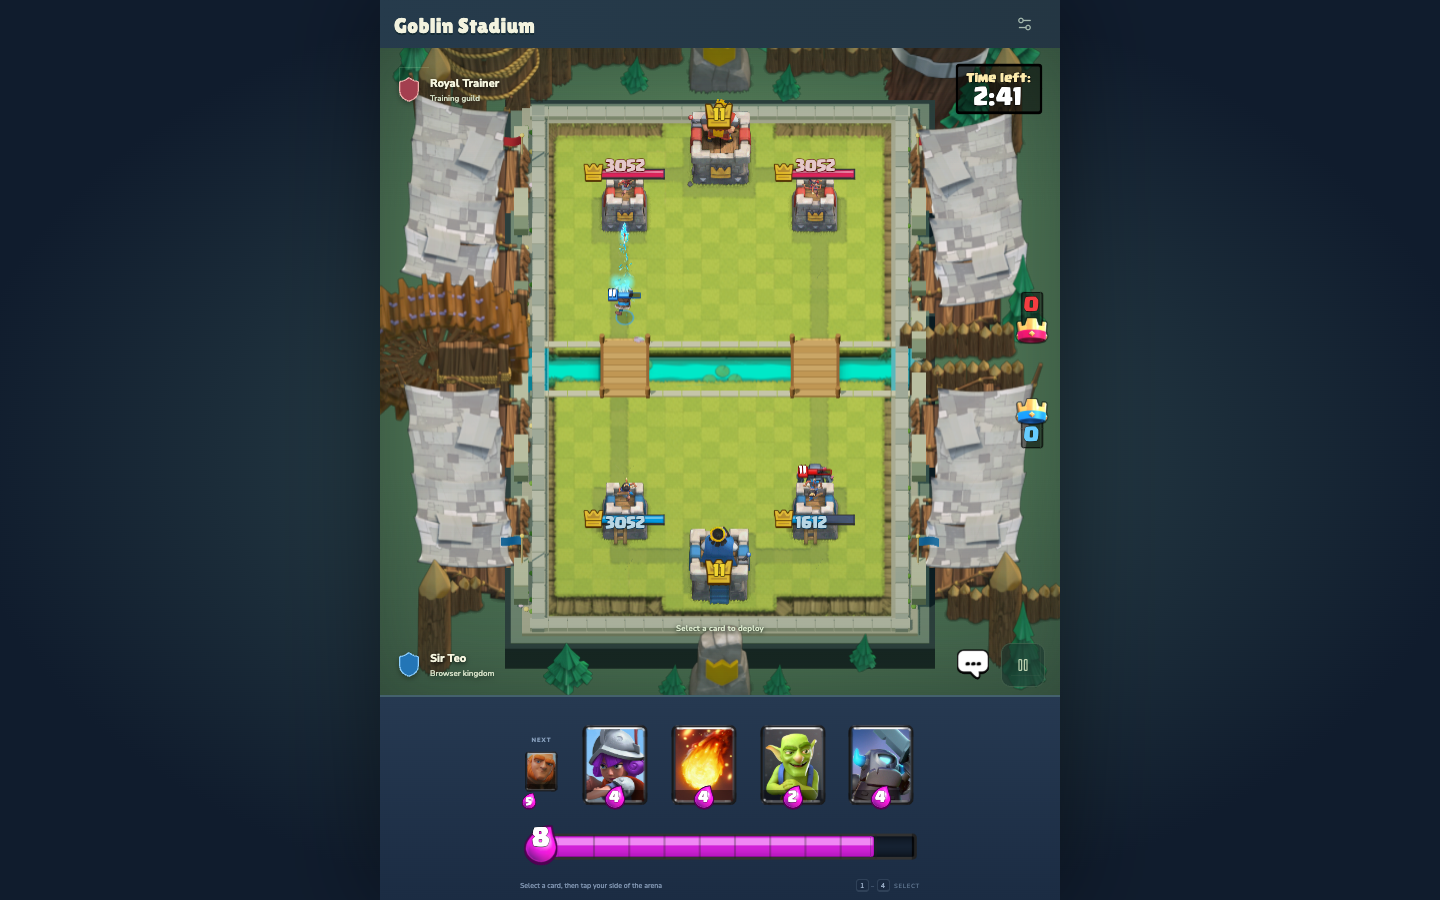
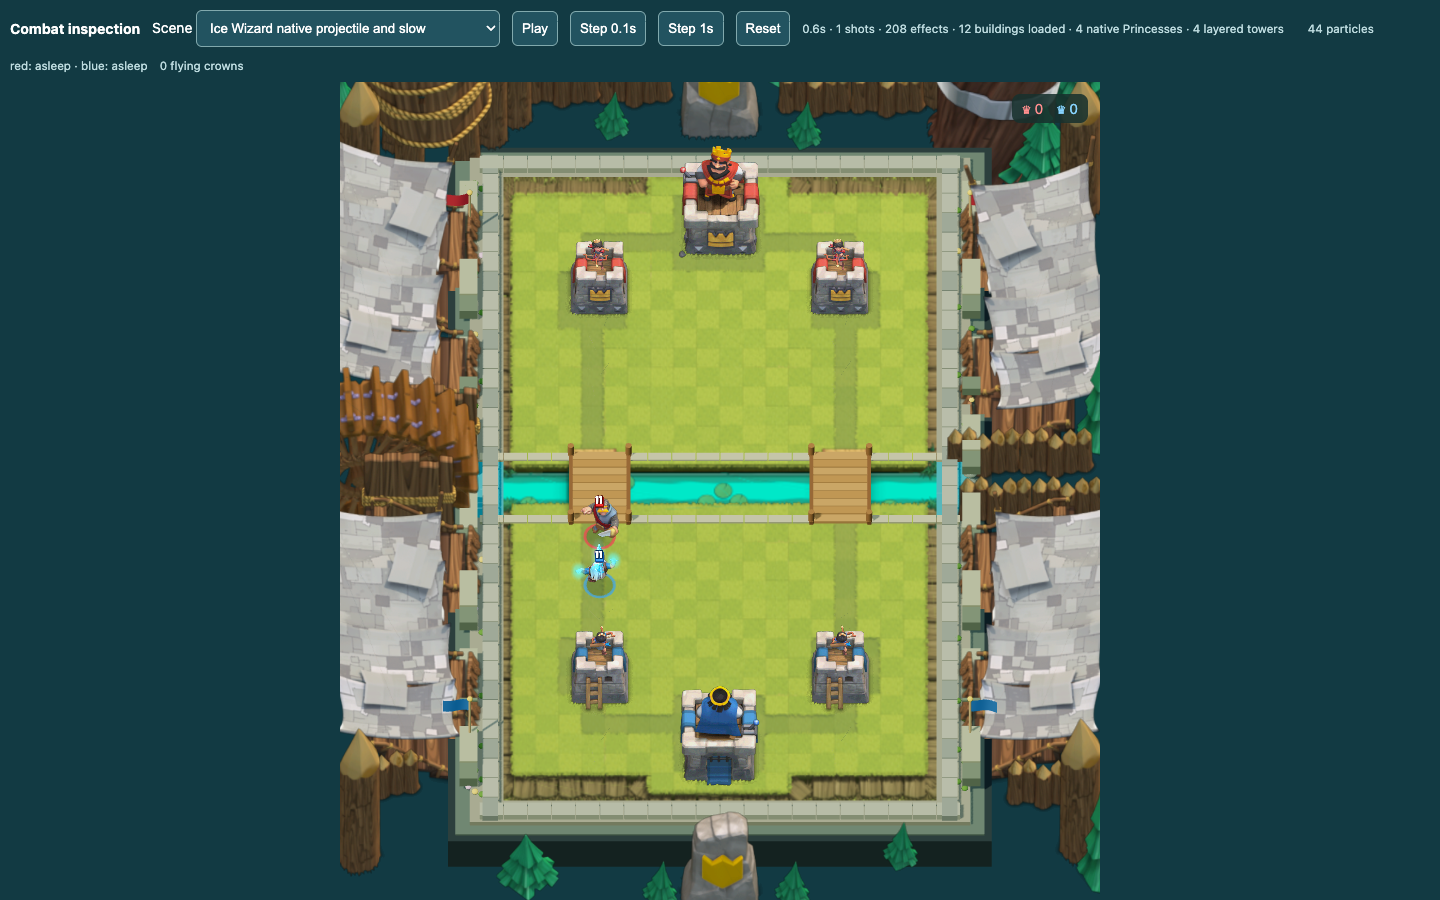
Record full browser sweep and controlled Ice Wizard captures

diff --git a/docs/QA.md b/docs/QA.md
@@ -633,7 +633,7 @@ All 303 unit checks, type checking and the production build pass. Production des
 
 The archived Ice Wizard card, character, projectile and buff rows pin a three-elixir Legendary attacker with a one-tile ground/air splash. Unit checks verify the source hashes, 54 directional sprite clips, original portrait, native projectile and four-layer icy impact, 95-particle snowflake/shard trail, 31-frame Legendary deployment filter, and the two-second 35% slow. The simulation test hits nearby ground and air units, confirms the slow in a guest snapshot, measures reduced attack and movement speed, and confirms expiry. The full 305-test suite, type check and production build pass.
 
-Production Chromium desktop and WebKit phone both selected Ice Wizard in the real hand, deployed him, loaded all 24 native animation families and observed the `ice_wizard_projectile` shot. Screenshots are `docs/screenshots/ice-wizard-shot.png`, `docs/screenshots/phone-ice-wizard-selected.png` and `docs/screenshots/phone-ice-wizard-shot.png`. Offline production reload starts a battle with the browser match worker and all 164 unique native combat/death audio files in a 670-file cache (version `01c1eb711bef`). A mixed Chromium/WebKit direct-browser invitation, battle, pause and replay passes without a game server.
+Production Chromium desktop and WebKit phone both selected Ice Wizard in the real hand, deployed him and loaded all 24 native animation families. A controlled browser scene verifies the `ice_wizard_projectile` sprite and its hit on both devices. Screenshots are `docs/screenshots/ice-wizard-shot.png`, `docs/screenshots/phone-ice-wizard-selected.png` and `docs/screenshots/phone-ice-wizard-shot.png`. Offline production reload starts a battle with the browser match worker and all 164 unique native combat/death audio files in a 670-file cache (version `01c1eb711bef`). A mixed Chromium/WebKit direct-browser invitation, battle, pause and replay passes without a game server.
 The phone WebKit card gallery also passes all 43 portraits, touch targets, fallback art and rotation checks.
 
 ## Native Princess and five-arrow volley
@@ -772,3 +772,9 @@ The deployed `https://sir-teo-clash.web.app/` version-16 bundle matches the buil
 ## Phone home-screen installation
 
 The standalone manifest, Apple touch metadata and 180/192/512-pixel crown icons now ship in the static build. The 512-pixel maskable icon has an opaque full canvas; the crown remains within the central safe area. The icon PNGs regenerate from `public/app-icon.svg` with `npm run assets:app-icons`. Chromium's `Page.getAppManifest` reports no parse errors, and `Page.getInstallabilityErrors` reports none on the local production preview or the hosted URL. The hosted HTML, manifest and four icons match the built bytes. The production offline test disconnects after service-worker installation, reloads, fetches the manifest and decodes all listed icons plus the touch icon, then starts a version-16 battle and checks native audio and fonts. Mobile WebKit also reloads offline under service-worker control and fetches the manifest and all three browser icons. All 439 unit tests, TypeScript checking and the production build pass; the cache contains 921 files. Production Mobile Safari still passes six viewport sizes, rotation and touch input. A mixed Chromium/WebKit production direct-peer battle passes pairing, combat, pause and replay. Physical home-screen launch on a phone remains unverified.
+
+## Full desktop sweep and GitHub Pages install paths
+
+A full 155-case desktop Chromium sweep against the development server produced 148 passes, one intended skip and six failures. Five were browser-check assumptions: two diagnostics were read before their next render frame, the native death-audio manifest had grown from six to nine files, a short replay-start wait expired under full-suite load, and a health assertion still expected Zap's old 30% Crown Tower damage. The five repaired cases pass together on rerun. The sixth case watched for a brief Ice Wizard projectile in an uncontrolled AI match; it passes in isolation but timed out in the loaded sweep. Real-hand deployment now has its own browser check, and a deterministic attack scene verifies the native `ice_wizard_projectile` sprite, a hit event and target damage. Both desktop Chromium and phone WebKit pass both Ice Wizard cases; inspected projectile captures replace `docs/screenshots/ice-wizard-shot.png` and `docs/screenshots/phone-ice-wizard-shot.png`.
+
+The manifest now resolves its start URL, scope and icons relative to its own location. A root production build and a `/web-clash-royale/` production build each pass TypeScript compilation and the complete offline reload: service-worker control, manifest/icon decoding, battle startup and all 278 native combat/death/music files. A separate Chromium check of the prefixed build resolves all three icons below `/web-clash-royale/` with no manifest parse errors. The root build has 921 cached files. Physical home-screen installation remains unverified.

diff --git a/docs/ARCHITECTURE.md b/docs/ARCHITECTURE.md
@@ -112,7 +112,7 @@ Particle trajectories evaluate native linear horizontal deceleration and current
 
 `src/main.ts` owns lobby, deck editing, battle controls, results and replay views. During battles, a viewport-height flex layout gives the arena all remaining space after the header and hand; short landscape screens use a two-column arena/hand layout. Safe-area insets, dynamic viewport height and touch targets support phone use without scrolling the match. Card hand elements update only after the hand changes. Health, timer and elixir update at about 10 Hz. AI battles and replays automatically pause when the page is hidden or enters page-cache suspension. Direct friendly battles pause when either browser is hidden or disconnected. The animation-frame loop is cancelled while hidden and restarted with a fresh timing baseline on return; the match remains paused until the player resumes. Lobby, paused and finished views render at 30 FPS, while active matches follow the display refresh rate. Troop animations and scenery use the match clock during battles/replays, so pause and replay speed affect them consistently. The FPS diagnostic reports frames actually rendered over a sampling interval. Modal dialogs pause a live AI match and resume when dismissed; friendly battle menus keep the browser-hosted match running while both tabs remain visible.
 
-`index.html` links the standalone web app manifest, iOS touch metadata and a 180-pixel touch icon. `scripts/build-app-icons.mjs` renders the checked-in SVG into 192- and 512-pixel browser icons plus a full-bleed maskable icon. The production service worker includes the manifest and icons in its versioned offline cache. These affect home-screen launch and presentation; AI matches remain offline-capable after the first complete load, while peer matches still need browser connectivity.
+`index.html` links the standalone web app manifest, iOS touch metadata and a 180-pixel touch icon. `scripts/build-app-icons.mjs` renders the checked-in SVG into 192- and 512-pixel browser icons plus a full-bleed maskable icon. Vite rewrites HTML links for its configured base path; the manifest uses relative launch, scope and icon paths so it also works under GitHub Pages' `/web-clash-royale/` prefix. The production service worker includes the manifest and icons in its versioned offline cache. These affect home-screen launch and presentation; AI matches remain offline-capable after the first complete load, while peer matches still need browser connectivity.
 
 `src/game/profile.ts` validates versioned localStorage data and recovers from corrupt or unavailable storage. It retains three decks, results for ten matches, trophy/gold counters, audio preferences and four chest slots. Card levels are normalized to level 11; progression does not alter battle stats.
 

diff --git a/README.md b/README.md
@@ -155,7 +155,7 @@ Open the Vite **Network** URL on a phone connected to the same Wi-Fi as the deve
 
 The current game is live at https://sir-teo-clash.web.app/. It serves the front-end-only build from a dedicated Firebase Hosting site; the match still connects browser to browser. To publish the current checkout again, install the Firebase CLI and run `npm run deploy:hosting`. The command builds `dist/` with root-relative assets and publishes only that directory to the `sir-teo-clash` site in project `sincere-hybrid-203601`. Source, tests and reference files remain in the private repository.
 
-GitHub Pages is also configured to deploy on every push to `main` through `.github/workflows/pages.yml` at https://teozeng.dev/web-clash-royale/. As of October 23, 2026, GitHub Actions rejects its jobs before the first step because of an account billing or spending-limit issue ([affected Pages run](https://github.com/Sir-Teo/web-clash-royale/actions/runs/40034244242)); that URL has an older build. Once the account issue is resolved, Pages can build the current `main` branch with `VITE_BASE_PATH=/web-clash-royale/`.
+GitHub Pages is also configured to deploy on every push to `main` through `.github/workflows/pages.yml` at https://teozeng.dev/web-clash-royale/. As of October 23, 2026, GitHub Actions rejects its jobs before the first step because of an account billing or spending-limit issue ([affected Pages run](https://github.com/Sir-Teo/web-clash-royale/actions/runs/40034244242)); that URL has an older build. Once the account issue is resolved, Pages can build the current `main` branch with `VITE_BASE_PATH=/web-clash-royale/`. The web app manifest resolves its launch scope and icons relative to that path.
 
 ## Controls
 
